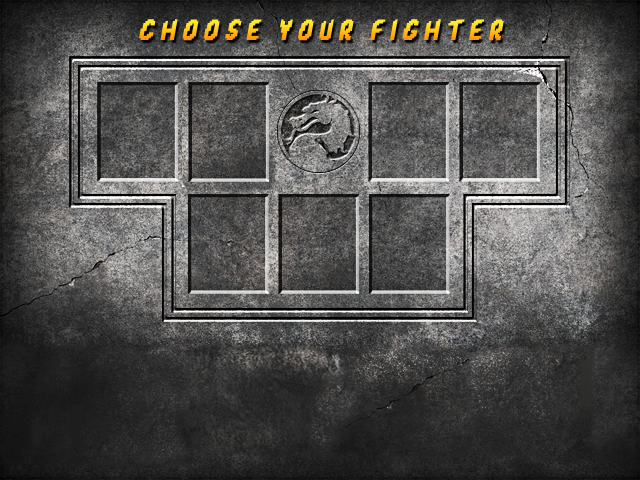
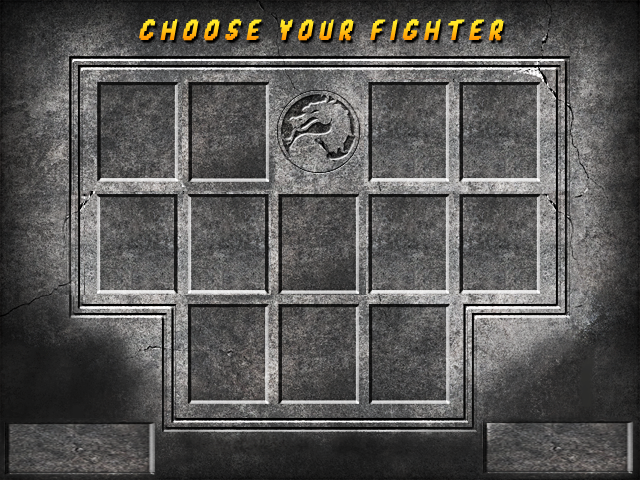
detallesss

Changed region(s): [[0.0, 0.375, 1.0, 1.0]]

diff --git a/Mortal Kombat/src/view/TextBox.cpp b/Mortal Kombat/src/view/TextBox.cpp
@@ -16,6 +16,8 @@ TextBox::TextBox(SDL_Rect rect, Ventana* ventana) {
 	mDimension = rect;
 	mTexto = " ";
 	textColor = {255,255,0,255};
+	titilar = false;
+	estadoTitilar = false;
 	borderColor = {0,255,0,255};
 	dcolor = 0; /* diferencial color */
 	_loadFont();
@@ -32,12 +34,13 @@ void TextBox::_loadFont(){
 	}
 }
 void TextBox::focus(bool enfocar){
-	if (enfocar)
+	if (enfocar){
 		dcolor += 70; //Altena el color del borde para saber que esta enfocado
-	else {
+	}else {
 		borderColor = {255,0,0,255};
 		dcolor = 0;
 	}
+	titilar = enfocar;
 }
 
 void TextBox::setText(string text){
@@ -61,6 +64,13 @@ void TextBox::_renderText(int x, int y, SDL_Rect* clip){
 }
 
 void TextBox::render(){
+
+	if (titilar){
+		estadoTitilar = !estadoTitilar;
+		if (!estadoTitilar)
+			return;
+	}
+
 	//Generar Textura con texto
 	if( mTexto != "" ){
 		_loadFromRenderedText( mTexto.c_str());
@@ -77,8 +87,8 @@ void TextBox::render(){
 	borderColor.g = (Uint8)variacion;
 	//SDL_SetRenderDrawColor(mVentana->getRenderer(), borderColor.r, borderColor.g, borderColor.b, borderColor.a);
 
-	SDL_SetRenderDrawColor(mVentana->getRenderer(), borderColor.r, borderColor.g, borderColor.b, 255);
-	SDL_RenderDrawRect(mVentana->getRenderer(), &mDimension);
+	//SDL_SetRenderDrawColor(mVentana->getRenderer(), borderColor.r, borderColor.g, borderColor.b, 255);
+	//SDL_RenderDrawRect(mVentana->getRenderer(), &mDimension);
 
 	int ancho = mDimension.w;
 	int x = mWidth - mDimension.w;

diff --git a/Mortal Kombat/src/view/MenuSelectPlayer.cpp b/Mortal Kombat/src/view/MenuSelectPlayer.cpp
@@ -40,8 +40,8 @@ void MenuSelectPlayer::_crearOpciones(){
 	int y_fila_2 = int(197*ratio_y + 0.5);
 	int y_fila_3 = int(307*ratio_y + 0.5);
 
-	NameJug1 = {int(10*ratio_x + 0.5),int(430*ratio_y + 0.5),int(150*ratio_x + 0.5),int(40*ratio_y + 0.5)};
-	NameJug2 = {int(475*ratio_x + 0.5),int(430*ratio_y + 0.5),int(150*ratio_x + 0.5),int(40*ratio_y + 0.5)};
+	NameJug1 = {int(10*ratio_x + 0.5),int(425*ratio_y + 0.5),int(140*ratio_x + 0.5),int(50*ratio_y + 0.5)};
+	NameJug2 = {int(485*ratio_x + 0.5),int(423*ratio_y + 0.5),int(142*ratio_x + 0.5),int(50*ratio_y + 0.5)};
 
 	Opcion_Personaje* opcion1 = new Opcion_Personaje;
 	opcion1->posicion = SDL_Rect {int(101*ratio_x + 0.5),y_fila_1,ancho,alto};
@@ -166,6 +166,7 @@ void MenuSelectPlayer::_renderSeleccion(int opcion_actual1,int opcion_actual2){
 		opciones[opcion_actual1].personaje->setPosition(20*ratio_x,300*ratio_y);
 		opciones[opcion_actual1].personaje->renderizar(0,0);
 	}
+
 	if (opciones[opcion_actual2].personaje != NULL){
 		opciones[opcion_actual2].personaje->setFlip(true);
 		opciones[opcion_actual2].personaje->setPosition(372*ratio_x,300*ratio_y);

diff --git a/Mortal Kombat/src/model/SelectPlayer.cpp b/Mortal Kombat/src/model/SelectPlayer.cpp
@@ -168,15 +168,6 @@ bool SelectPlayer::mouseinTextBox(int x, int y){
 		}
 	}
 
-	if (textBoxPlayer1){
-		textBoxPlayer1 = false;
-		text_Box_1->focus(false);
-	}
-	if (textBoxPlayer2) {
-		text_Box_2->focus(false);
-		textBoxPlayer2 = false;
-	}
-
 	return false;
 }
 /*
@@ -206,10 +197,12 @@ void SelectPlayer::textBoxEnter(){
 
 	if (textBoxPlayer1){
 		personajes[Player1]->setNombre(text_Box_1->getText());
+		text_Box_1->focus(false);
 		textBoxPlayer1 = false;
 	}
 	if (textBoxPlayer2){
 		personajes[Player2]->setNombre(text_Box_2->getText());
+		text_Box_2->focus(false);
 		textBoxPlayer2 = false;
 	}
 }

diff --git a/Mortal Kombat/src/view/MenuSelectPlayer.h b/Mortal Kombat/src/view/MenuSelectPlayer.h
@@ -18,7 +18,7 @@
 #include "../model/Personaje.h"
 #include "../model/Pelea.h"
 
-#define RUTA_FONDO "data/img/etc/MenuSelection12.png"
+#define RUTA_FONDO "data/img/etc/MenuSelection.png"
 #define RUTA_RECT_1 "data/img/etc/1.png"
 #define RUTA_RECT_2 "data/img/etc/2.png"
 #define RUTA_RECT_CPU "data/img/etc/cpu.png"

diff --git a/Mortal Kombat/src/view/TextBox.h b/Mortal Kombat/src/view/TextBox.h
@@ -32,6 +32,8 @@ private:
 
 	/* Posicion */
 	SDL_Rect mDimension;
+	bool titilar;
+	bool estadoTitilar;
 
 	int mWidth;
 	int mHeight;
